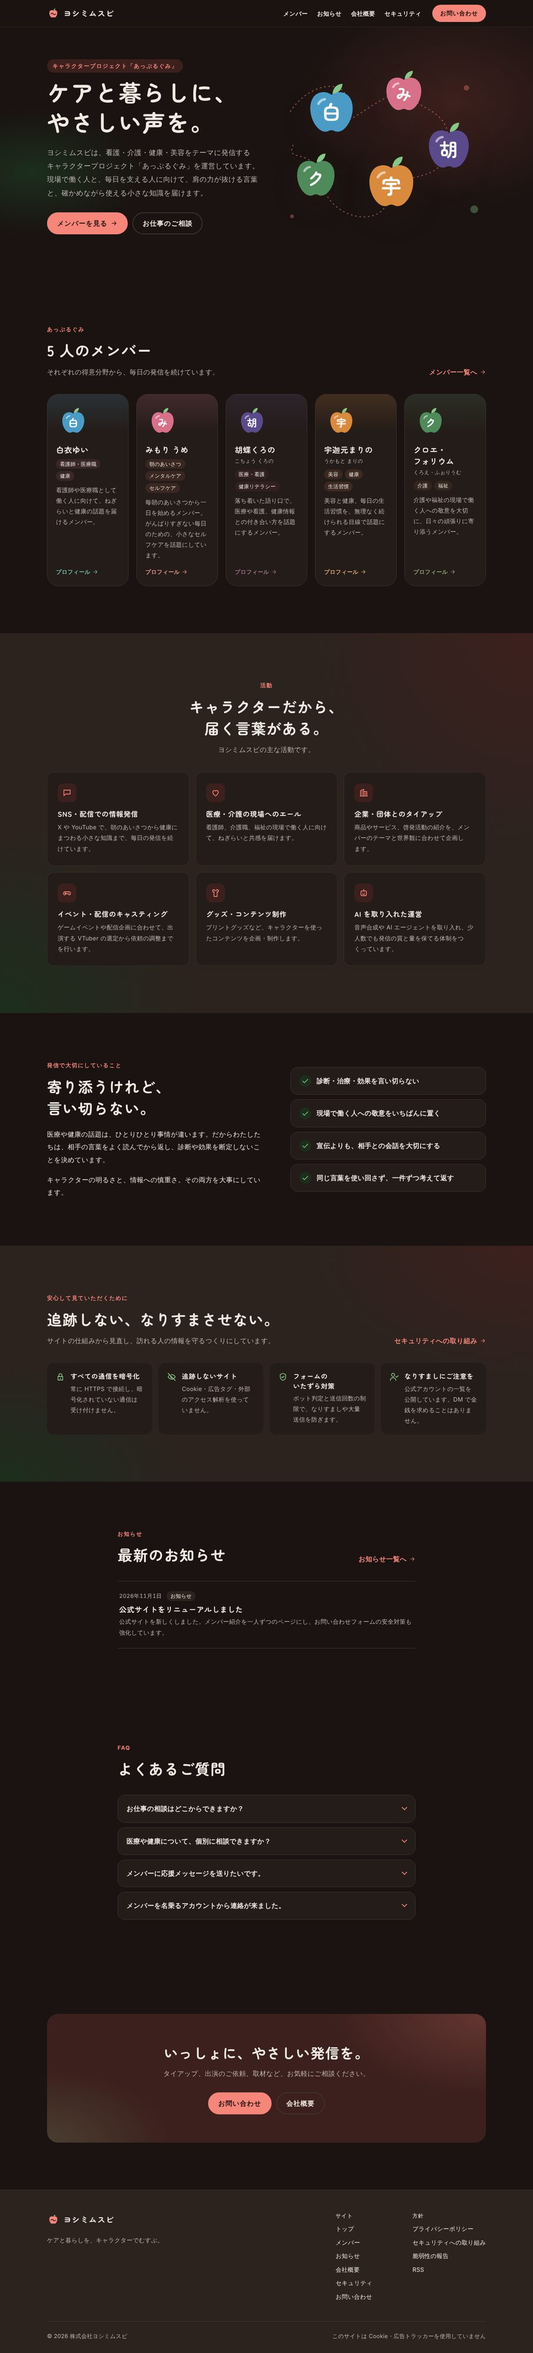
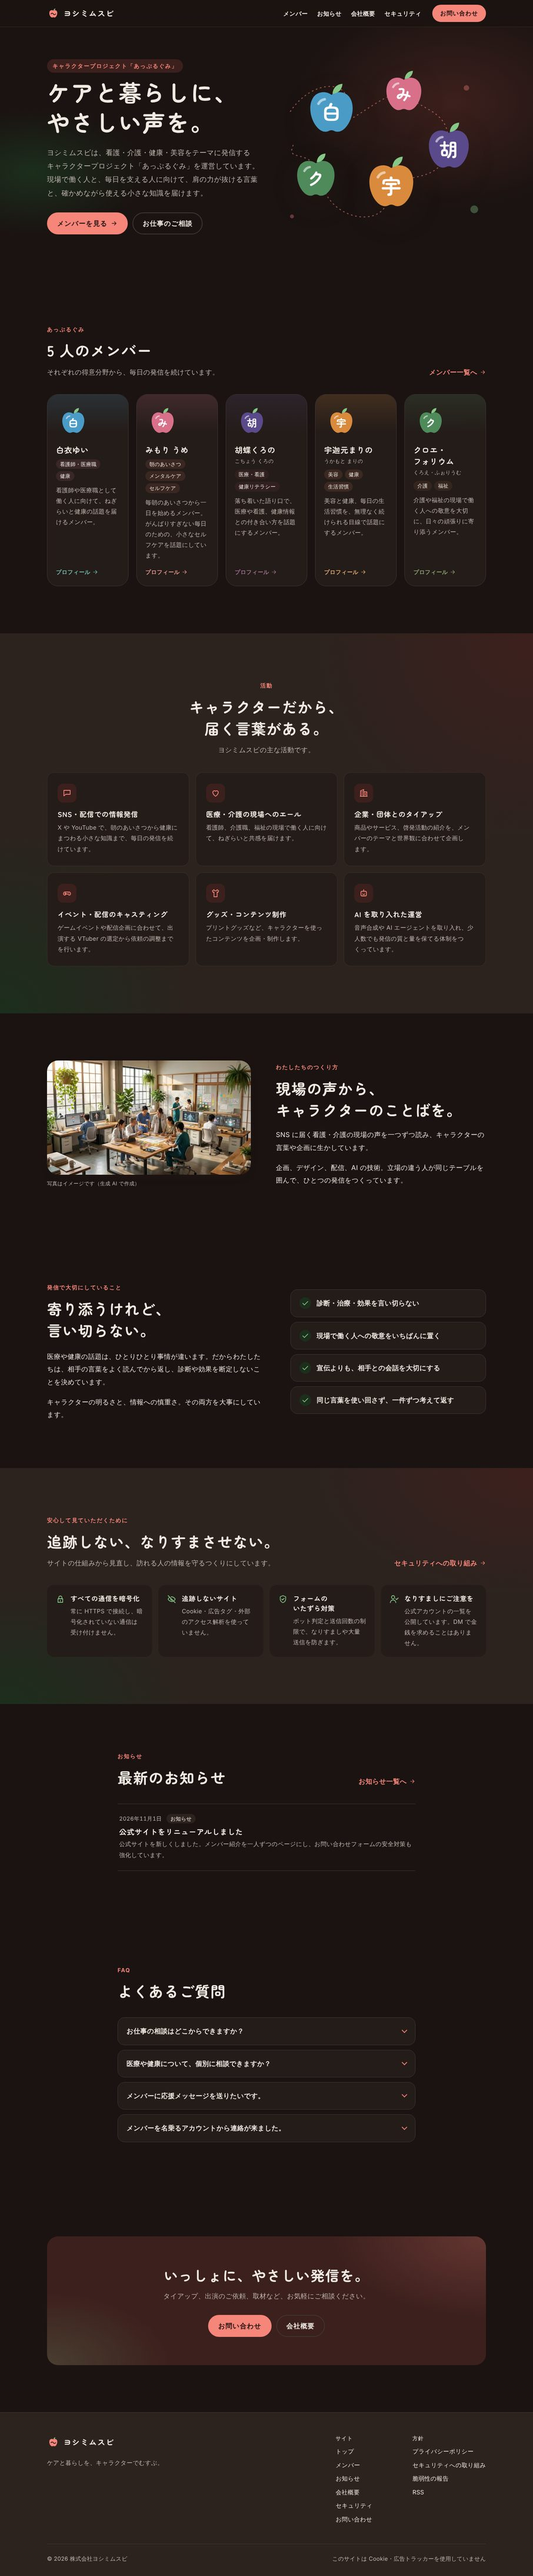
Add "how we make it" section with the shared reference image
- Show the shared image (frontline staff and creators at one table) on
  the home page via astro:assets, served as AVIF/WebP from the site itself
- Label it as an AI-generated illustration so it is not mistaken for real
  staff
- verify-dist: require width/height on <img> and reject hotlinked images
- Docs: metadata stripping and AI-image labeling in the security design,
  higher-resolution replacement in the placeholder checklist

Claude-Session: https://claude.ai/code/session_01P6UWN8DtFW9BuTVVmpwFUu

diff --git a/yoshimi-secure-site/src/styles/global.css b/yoshimi-secure-site/src/styles/global.css
@@ -879,6 +879,45 @@ mark.todo {
   background: var(--surface);
 }
 
+/* ---------- つくり方（画像と文章） ---------- */
+
+.story {
+  display: grid;
+  gap: 32px;
+  align-items: center;
+}
+
+@media (min-width: 900px) {
+  .story {
+    grid-template-columns: minmax(0, 520px) 1fr;
+    gap: 64px;
+  }
+}
+
+.story__figure {
+  margin: 0;
+}
+
+.story__figure img {
+  display: block;
+  width: 100%;
+  height: auto;
+  aspect-ratio: 512 / 286;
+  object-fit: cover;
+  border-radius: var(--radius-l);
+  box-shadow: var(--shadow);
+}
+
+.story__figure figcaption {
+  margin-top: 10px;
+  color: var(--ink-soft);
+  font-size: 0.8125rem;
+}
+
+.story .section-head {
+  margin-bottom: 20px;
+}
+
 /* ---------- 方針（左右分割） ---------- */
 
 .split {

diff --git a/yoshimi-secure-site/docs/SECURITY_DESIGN.md b/yoshimi-secure-site/docs/SECURITY_DESIGN.md
@@ -34,6 +34,8 @@
 | WAF を迂回する別の入口 | `*.workers.dev` などの URL が生きている | `workers_dev: false`・`preview_urls: false` | `wrangler.jsonc` |
 | なりすましアカウント・フィッシング | 公式アカウントがどれか分からない | 公式アカウント一覧を公開（会社概要・セキュリティのページ）、プロフィールに `rel="me"`、「DM でお金を求めない」と明記 | `src/pages/security.astro` |
 | AI エージェント経由の改変（プロンプトインジェクション） | AI に公開サイトへの書き込み権限を渡している | 公開サイトに AI 用の書き込み口（MCP など）を置かない。AI の変更も PR で人が確認し、スキーマとビルドチェックを通す | README |
+| 画像から位置情報・撮影機材などが漏れる | 写真の EXIF をそのまま公開 | 画像は `src/assets/` に置き、ビルド時に AVIF・WebP へ作り直す。この過程で位置情報などのメタデータは消える（GPS 入りの画像で確認済み）。外部サイトの画像の直接読み込みはビルドで止める | `src/pages/index.astro`、`scripts/verify-dist.mjs` |
+| 生成 AI の画像が実在の人・現場と誤解される | 注記なしで掲載 | 生成 AI の画像には「写真はイメージです（生成 AI で作成）」と添える。医療職の姿が写る画像を実際のスタッフのように見せない | `src/pages/index.astro` |
 | 脆弱性を見つけた人の連絡先がない | 窓口なし | `/.well-known/security.txt`（RFC 9116）と報告の方針を公開。期限切れはビルドで検知 | `public/.well-known/security.txt`、`scripts/verify-dist.mjs` |
 
 ## HTTP ヘッダー

diff --git a/yoshimi-secure-site/docs/REPLACE_CHECKLIST.md b/yoshimi-secure-site/docs/REPLACE_CHECKLIST.md
@@ -29,3 +29,5 @@
 | メンバーのアイコン | 色付きのりんごに頭文字 | 立ち絵・アイコン画像を入れるか（入れる場合は `src/assets/` に置き、Astro の画像最適化を通す） |
 | お問い合わせの種別 | お仕事・取材・セキュリティ報告・そのほか | 窓口の分け方 |
 | `public/og.png`・`public/icon.png` | 仮のデザインで作成 | ロゴが決まっていれば差し替え |
+| トップ「わたしたちのつくり方」の画像（`src/assets/images/genba-and-creators.jpg`） | 共有された参考画像（生成 AI）。幅 512px | 幅 1600px 以上で作り直すか、実際の写真に差し替え。差し替えたら「生成 AI で作成」の注記を外す（`src/pages/index.astro`） |
+| トップ「わたしたちのつくり方」の文章 | 「SNS に届く現場の声を読み、言葉や企画に生かす」「企画・デザイン・配信・AI の人が同じテーブルを囲む」 | 実際の体制と合っているか。医療職の監修などがあれば書き足すと信頼につながる（ない場合は書かない） |
